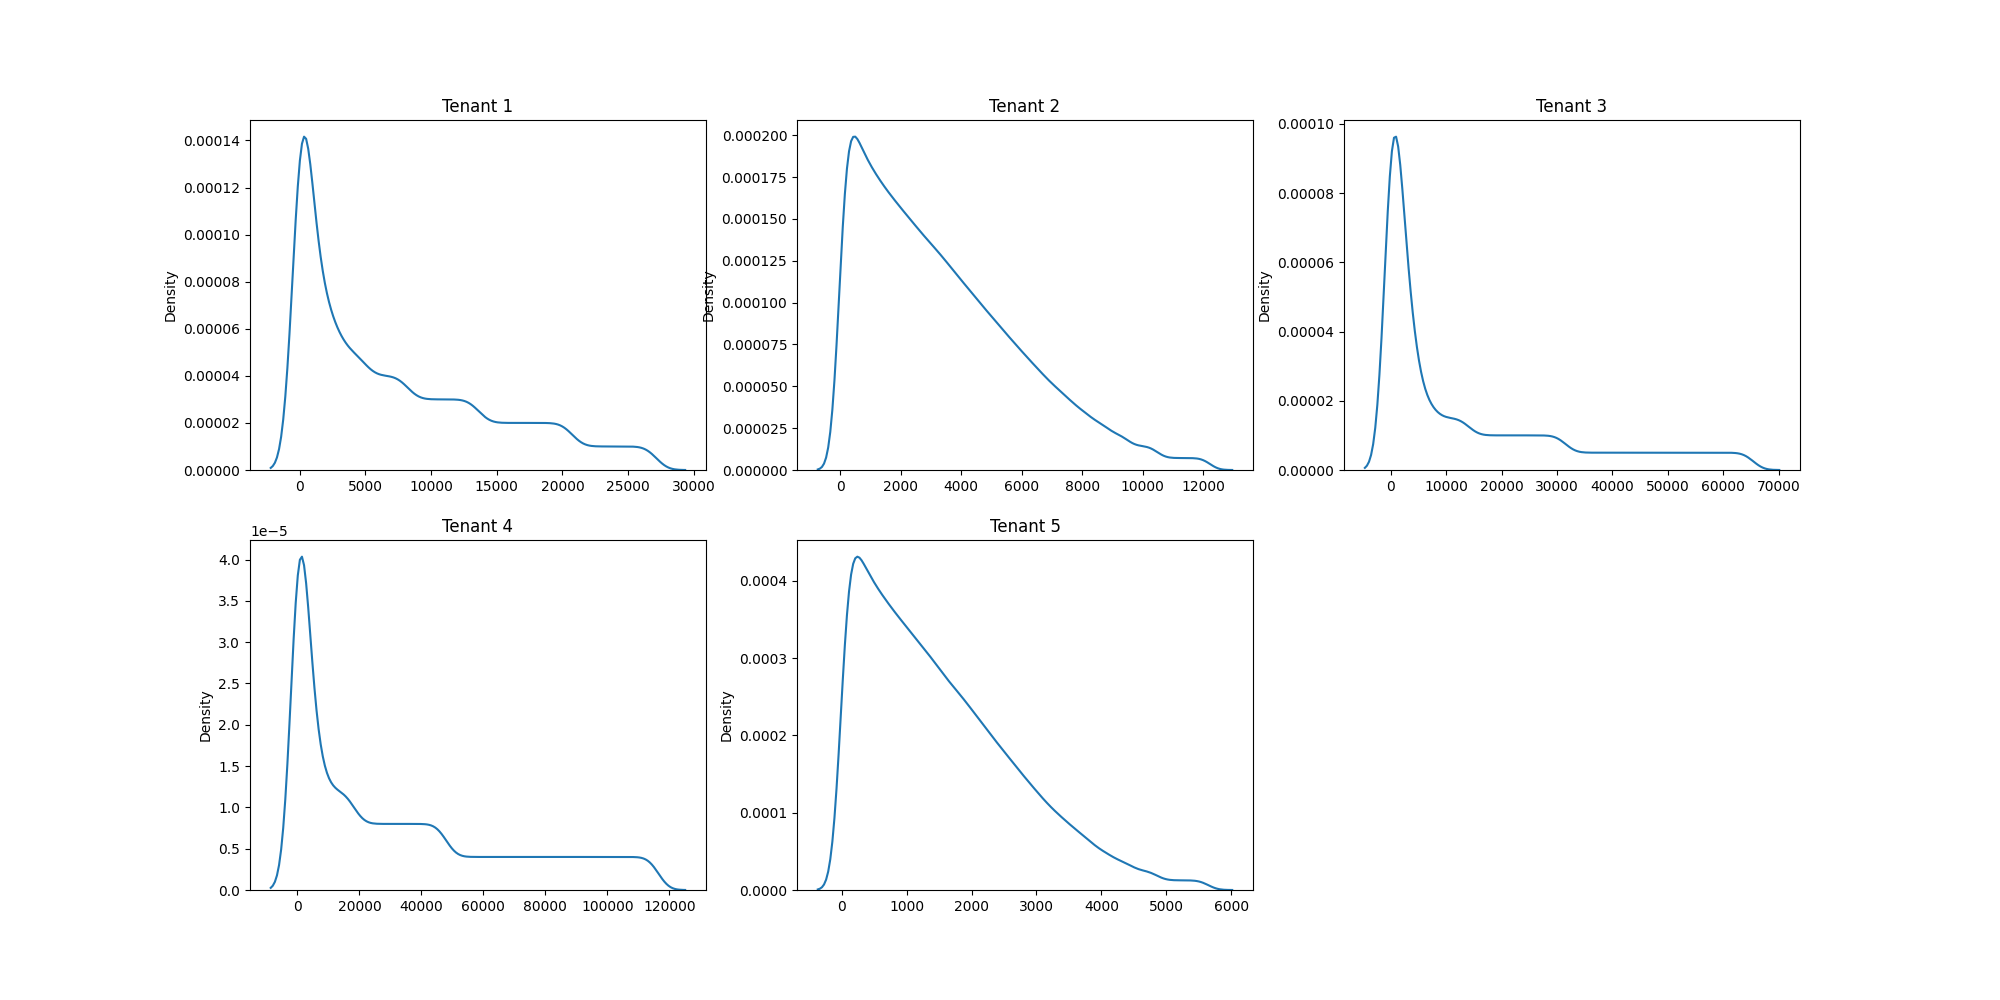
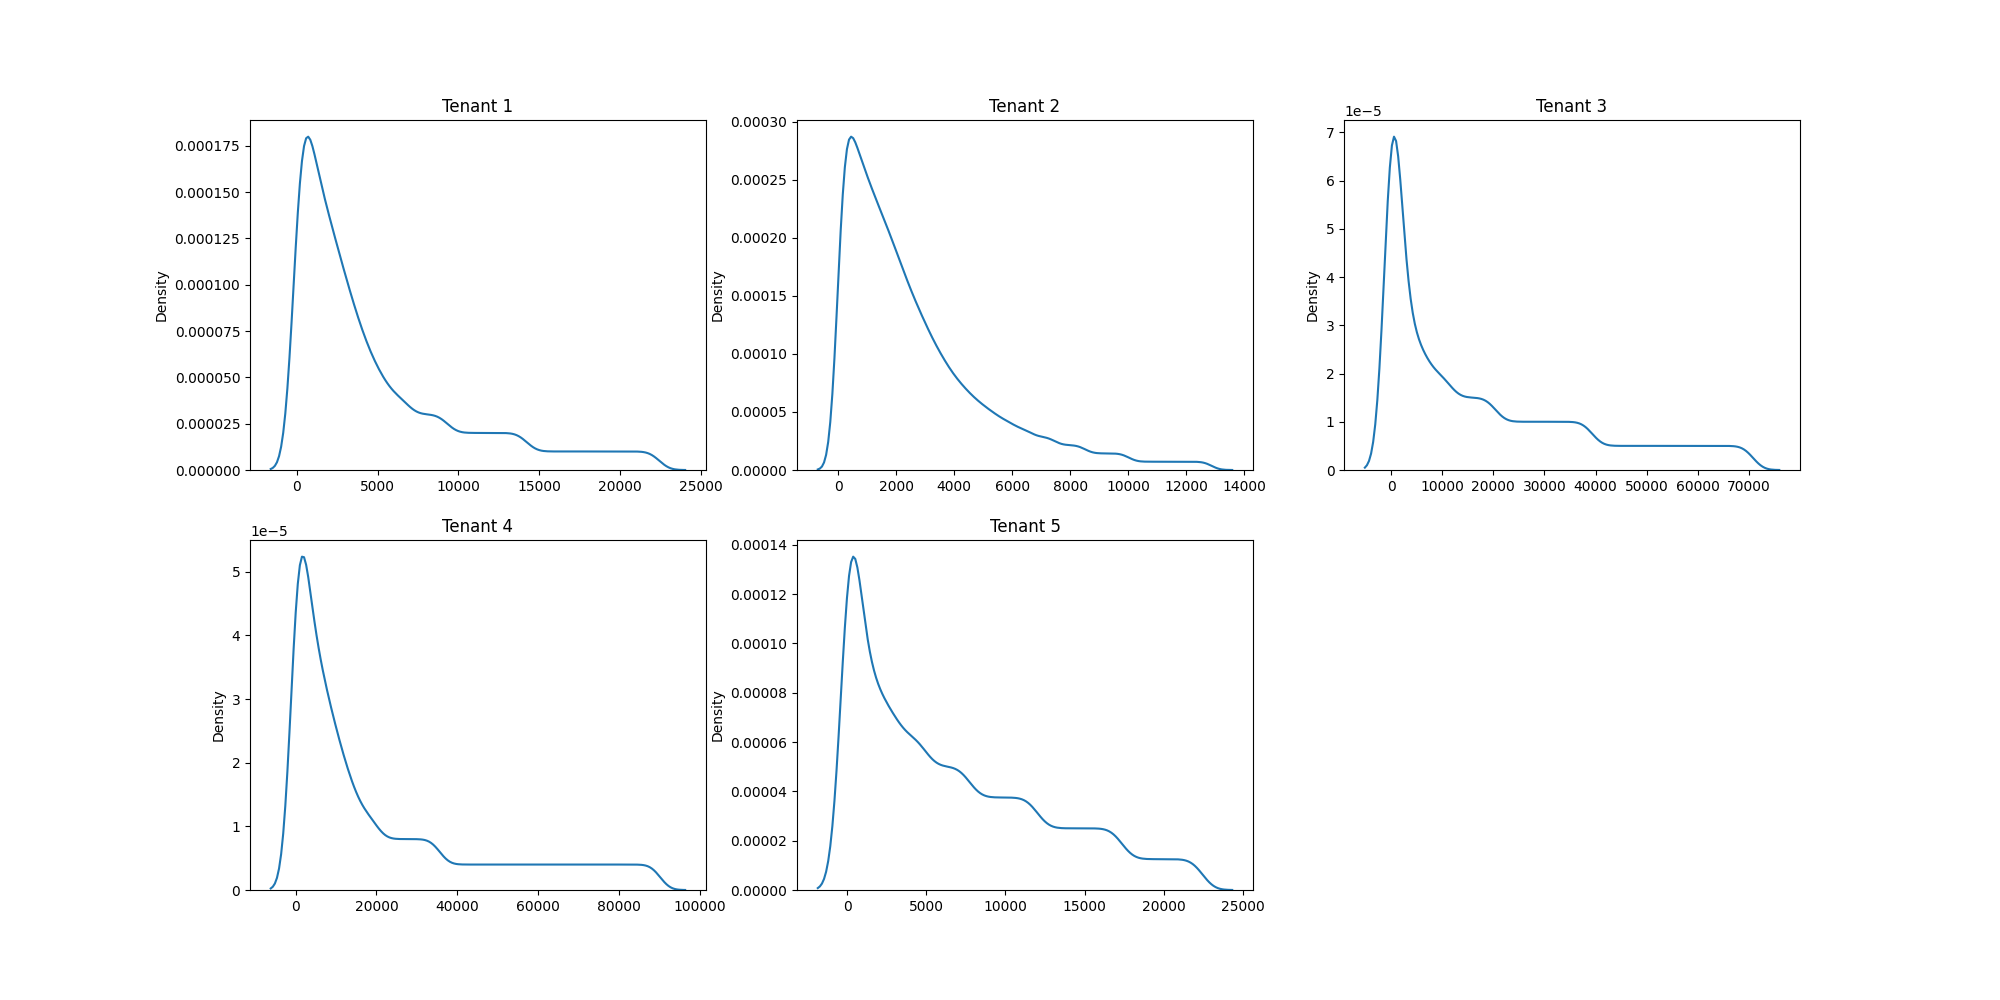
feat/modify-test-12

diff --git a/test_cases/test_case_12/description.py b/test_cases/test_case_12/description.py
@@ -9,17 +9,36 @@ tenants = [
         'minimum_buffer_size': 2000,
         'base_buffer_size': 5000,
         'maximum_buffer_size': 12500,
-        'page_accesses_dist': {
+        'page_accesses_dist': [
+          {
             'type': 'zipfian',
             'parameter': 1.01,
-            'length': 100000,
-        },
-        'pages_should_be_renumbered': False,
-        'page_accesses_interval_dist': {
+            'length': 30000,
+            'interval_type': 'uniform',
+            'interval_max_value': 1,
+          },
+          {
             'type': 'uniform',
-            'length': 100000,
-            'max_value': 1,
-        },
+            'length': 10000,
+            'interval_type': 'uniform',
+            'interval_max_value': 1,
+          },
+          {
+            'type': 'normal',
+            'variance': 2000,
+            'length': 40000,
+            'interval_type': 'uniform',
+            'interval_max_value': 1,
+          },
+          {
+            'type': 'normal',
+            'variance': 1000,
+            'length': 20000,
+            'interval_type': 'uniform',
+            'interval_max_value': 1,
+          },
+        ],
+        'pages_should_be_renumbered': True,
     },
     {
         'tenant_id': 2,
@@ -28,11 +47,15 @@ tenants = [
         'minimum_buffer_size': 2500,
         'base_buffer_size': 6500,
         'maximum_buffer_size': 16000,
-        'page_accesses_dist': {
+        'page_accesses_dist': [
+          {
             'type': 'normal',
-            'variance': 4500,
-            'length': 140000,
-        },
+            'variance': variance,
+            'length': 20000,
+            'interval_type': 'uniform',
+            'interval_max_value': 1,
+          } for variance in [4500, 1500, 2000, 7000, 3000, 2000, 5000]
+        ],
         'pages_should_be_renumbered': False,
         'page_accesses_interval_dist': {
             'type': 'uniform',
@@ -47,17 +70,16 @@ tenants = [
         'minimum_buffer_size': 3000,
         'base_buffer_size': 8000,
         'maximum_buffer_size': 20000,
-        'page_accesses_dist': {
+        'page_accesses_dist': [
+          {
             'type': 'pareto',
-            'parameter': 0.04,
-            'length': 200000,
-        },
-        'pages_should_be_renumbered': False,
-        'page_accesses_interval_dist': {
-            'type': 'uniform',
-            'length': 200000,
-            'max_value': 1,
-        },
+            'parameter': parameter,
+            'length': length,
+            'interval_type': 'uniform',
+            'interval_max_value': 1,
+          } for parameter, length in [(0.04, 40000), (0.05, 20000), (0.04, 50000), (0.05, 80000), (0.07, 10000)]
+        ],
+        'pages_should_be_renumbered': True,
     },
     {
         'tenant_id': 4,
@@ -66,17 +88,43 @@ tenants = [
         'minimum_buffer_size': 4000,
         'base_buffer_size': 10000,
         'maximum_buffer_size': 25000,
-        'page_accesses_dist': {
+        'page_accesses_dist': [
+          {
             'type': 'zipfian',
             'parameter': 1.005,
-            'length': 250000,
-        },
-        'pages_should_be_renumbered': False,
-        'page_accesses_interval_dist': {
+            'length': 25000,
+            'interval_type': 'uniform',
+            'interval_max_value': 1,
+          },
+          {
+            'type': 'normal',
+            'variance': 3000,
+            'length': 50000,
+            'interval_type': 'uniform',
+            'interval_max_value': 1,
+          },
+          {
+            'type': 'pareto',
+            'parameter': 0.04,
+            'length': 100000,
+            'interval_type': 'uniform',
+            'interval_max_value': 1,
+          },
+          {
             'type': 'uniform',
-            'length': 250000,
-            'max_value': 1,
-        },
+            'length': 25000,
+            'interval_type': 'uniform',
+            'interval_max_value': 1,
+          },
+          {
+            'type': 'normal',
+            'variance': 4000,
+            'length': 50000,
+            'interval_type': 'uniform',
+            'interval_max_value': 1,
+          }
+        ],
+        'pages_should_be_renumbered': True,
     },
     {
         'tenant_id': 5,
@@ -85,17 +133,36 @@ tenants = [
         'minimum_buffer_size': 1500,
         'base_buffer_size': 4000,
         'maximum_buffer_size': 10000,   
-        'page_accesses_dist': {
+        'page_accesses_dist': [
+          {
             'type': 'normal',
             'variance': 2000,
-            'length': 80000,
-        },
-        'pages_should_be_renumbered': False,
-        'page_accesses_interval_dist': {
+            'length': 10000,
+            'interval_type': 'uniform',
+            'interval_max_value': 1,
+          },
+          {
             'type': 'uniform',
-            'length': 80000,
-            'max_value': 1,
-        },
+            'length': 10000,
+            'interval_type': 'uniform',
+            'interval_max_value': 1,
+          },
+          {
+            'type': 'pareto',
+            'parameter': 0.04,
+            'length': 30000,
+            'interval_type': 'uniform',
+            'interval_max_value': 1,
+          },
+          {
+            'type': 'zipfian',
+            'parameter': 1.01,
+            'length': 30000,
+            'interval_type': 'uniform',
+            'interval_max_value': 1,
+          }
+        ],
+        'pages_should_be_renumbered': True,
     }
 ]
 
